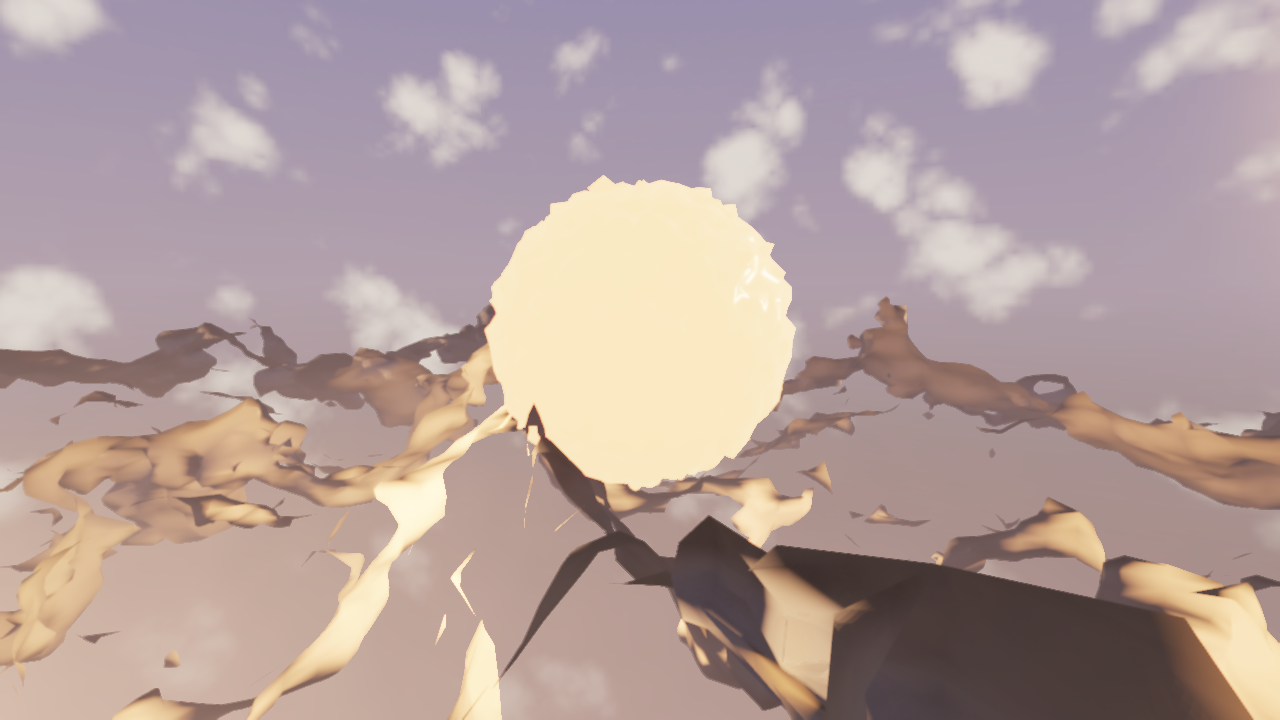
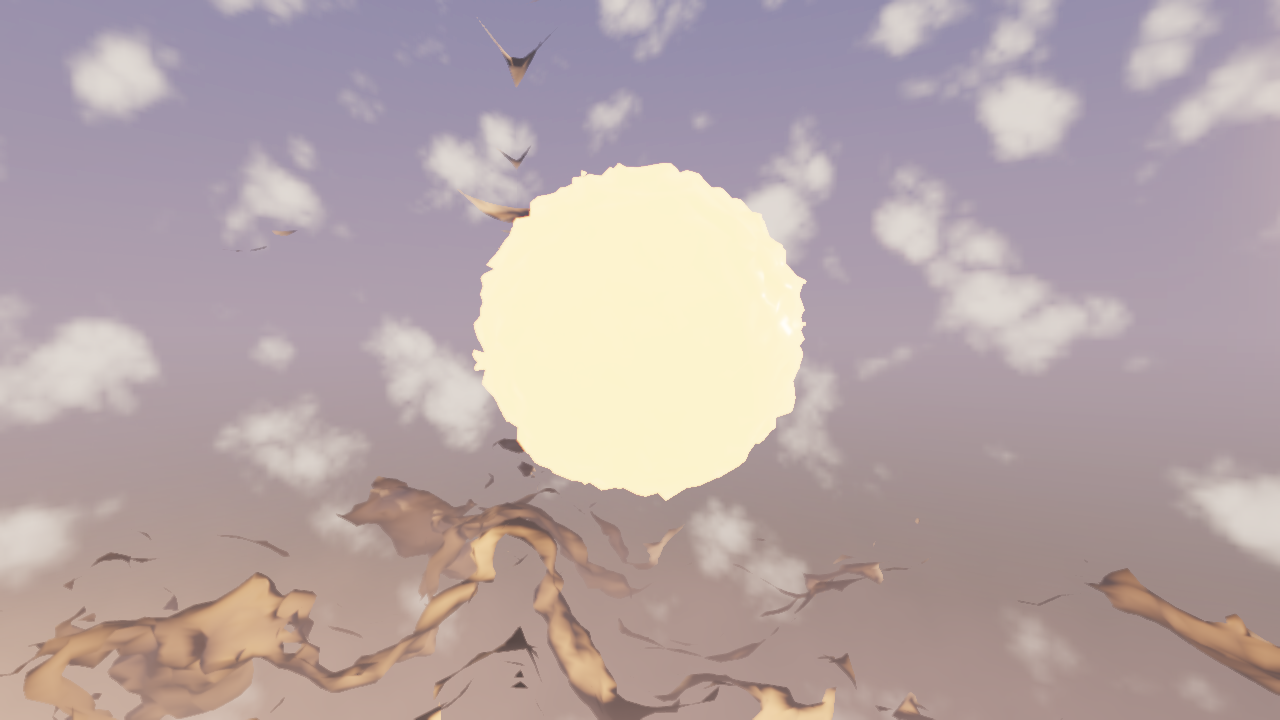
G25 demo fix: closed iso-surface inside the volume (no see-through holes with backface culling), crystals above ridge with visible bloom
- cave field keeps positive near the volume boundary (falloff) so the surface closes inside the box
- crystals raised above the terrain, emissive raised, bloomStrength 1.2
- refs g25_marching_cubes_{cave,blob}.png re-rendered + compressed; closed-volume note in tutorials en/de; CHANGELOG

diff --git a/examples/marching_cubes_screenshot/main.cpp b/examples/marching_cubes_screenshot/main.cpp
@@ -229,16 +229,16 @@ int main(int argc, char** argv) {
         return mesh; // keep alive
     };
     std::vector<std::unique_ptr<fuhgl::render::Mesh>> blobs;
-    blobs.push_back(makeBlob({0.f, 26.f, -6.f}, 5.5f, {3.2f, 1.5f, 0.5f}));   // amber
-    blobs.push_back(makeBlob({-16.f, 20.f, 14.f}, 3.2f, {0.5f, 1.9f, 3.6f}));  // cyan
-    blobs.push_back(makeBlob({18.f, 17.f, 10.f}, 2.4f, {3.0f, 0.7f, 2.2f}));   // magenta
+    blobs.push_back(makeBlob({0.f, 36.f, -6.f}, 5.5f, {3.2f, 1.5f, 0.5f}));   // amber
+    blobs.push_back(makeBlob({-16.f, 30.f, 14.f}, 3.2f, {0.5f, 1.9f, 3.6f}));  // cyan
+    blobs.push_back(makeBlob({18.f, 26.f, 10.f}, 2.4f, {3.0f, 0.7f, 2.2f}));   // magenta
 
     // --- lights + sky/IBL ---
     scene.root().createChild("sun").attach<scene::LightComponent>().light =
         fuhgl::render::Light::directional(-sunDir, {1.0f, 0.55f, 0.32f}, 2.6f);
     // warm fill point light near the big crystal (cave glow)
     scene.root().createChild("glow").attach<scene::LightComponent>().light =
-        fuhgl::render::Light::point({0.f, 24.f, -6.f}, {1.0f, 0.45f, 0.18f}, 320.f, 60.f);
+        fuhgl::render::Light::point({0.f, 34.f, -6.f}, {1.0f, 0.45f, 0.18f}, 320.f, 60.f);
 
     fuhgl::Texture skyCube = makeDuskSky(256, noise, sunDir);
     fuhgl::render::Environment env;
@@ -283,9 +283,9 @@ int main(int argc, char** argv) {
     renderer.godRays.decay = 0.95f;
     renderer.godRays.samples = 48;
 
-    // shot 1: cave terrain at dusk from the south-east, crystals glowing
-    cam.position = {58.f, 34.f, 78.f};
-    aimAt(cam, {0.f, 14.f, -4.f});
+    // shot 1: cave terrain at dusk from the south-east, crystals glowing above the ridge
+    cam.position = {62.f, 44.f, 80.f};
+    aimAt(cam, {0.f, 18.f, -6.f});
     const std::string cavePath = args.prefix + "_cave.png";
     if (!renderToPng(scene, cam, renderer, &env, args.frames, args.width, args.height, cavePath)) {
         std::fprintf(stderr, "marching_cubes_screenshot: failed to write %s\n", cavePath.c_str());
@@ -294,8 +294,8 @@ int main(int argc, char** argv) {
     std::fprintf(stderr, "marching_cubes_screenshot: wrote %s\n", cavePath.c_str());
 
     // shot 2: closeup of the amber crystal cluster with bloom + god rays
-    cam.position = {14.f, 28.f, 16.f};
-    aimAt(cam, {0.f, 25.f, -6.f});
+    cam.position = {14.f, 36.f, 14.f};
+    aimAt(cam, {0.f, 35.f, -6.f});
     const std::string blobPath = args.prefix + "_blob.png";
     if (!renderToPng(scene, cam, renderer, &env, args.frames, args.width, args.height, blobPath)) {
         std::fprintf(stderr, "marching_cubes_screenshot: failed to write %s\n", blobPath.c_str());

diff --git a/docs/de/tutorials/g25_marching_cubes.md b/docs/de/tutorials/g25_marching_cubes.md
@@ -40,6 +40,12 @@ entry.albedo = {0.46f, 0.43f, 0.38f};
 entry.roughness = 0.95f;
 ```
 
+
+> ⚠ **Geschlossene Volumen:** die Pipeline cullt Backfaces — die Iso-Fläche muss *innerhalb*
+> der gesampelten Box geschlossen sein. Feld nahe am Volumenrand positiv halten (z. B. Falloff
+> jenseits der Terrain-Ausdehnung). Berührt der Festkörper den Box-Rand, rendert die offene
+> Grenze als durchsichtige Löcher.
+
 Details: ein Gitterpunkt ist „innen“, wenn `Wert < Isolevel`; geschnittene Kanten werden linear
 interpoliert, Normalen kommen aus zentralen Differenzen des Grids (pro Kante interpoliert), und
 Vertices werden pro Gitterkante verschweißt — das Mesh ist also geschlossen (manifold), wo die

diff --git a/docs/en/tutorials/g25_marching_cubes.md b/docs/en/tutorials/g25_marching_cubes.md
@@ -39,6 +39,12 @@ entry.albedo = {0.46f, 0.43f, 0.38f};
 entry.roughness = 0.95f;
 ```
 
+
+> ⚠ **Closed volumes:** the pipeline culls back faces, so the iso-surface must be closed
+> *inside* the sampled box — keep the field positive near the volume boundary (e.g. add a
+> falloff beyond the terrain extent). If the solid touches the box border, the open boundary
+> renders as see-through holes.
+
 Details: a lattice point is "inside" when `value < isolevel`; crossing edges are linearly
 interpolated, normals come from central differences of the grid (interpolated per edge), and
 vertices are welded per lattice edge — so the mesh is closed (manifold) where the surface does
